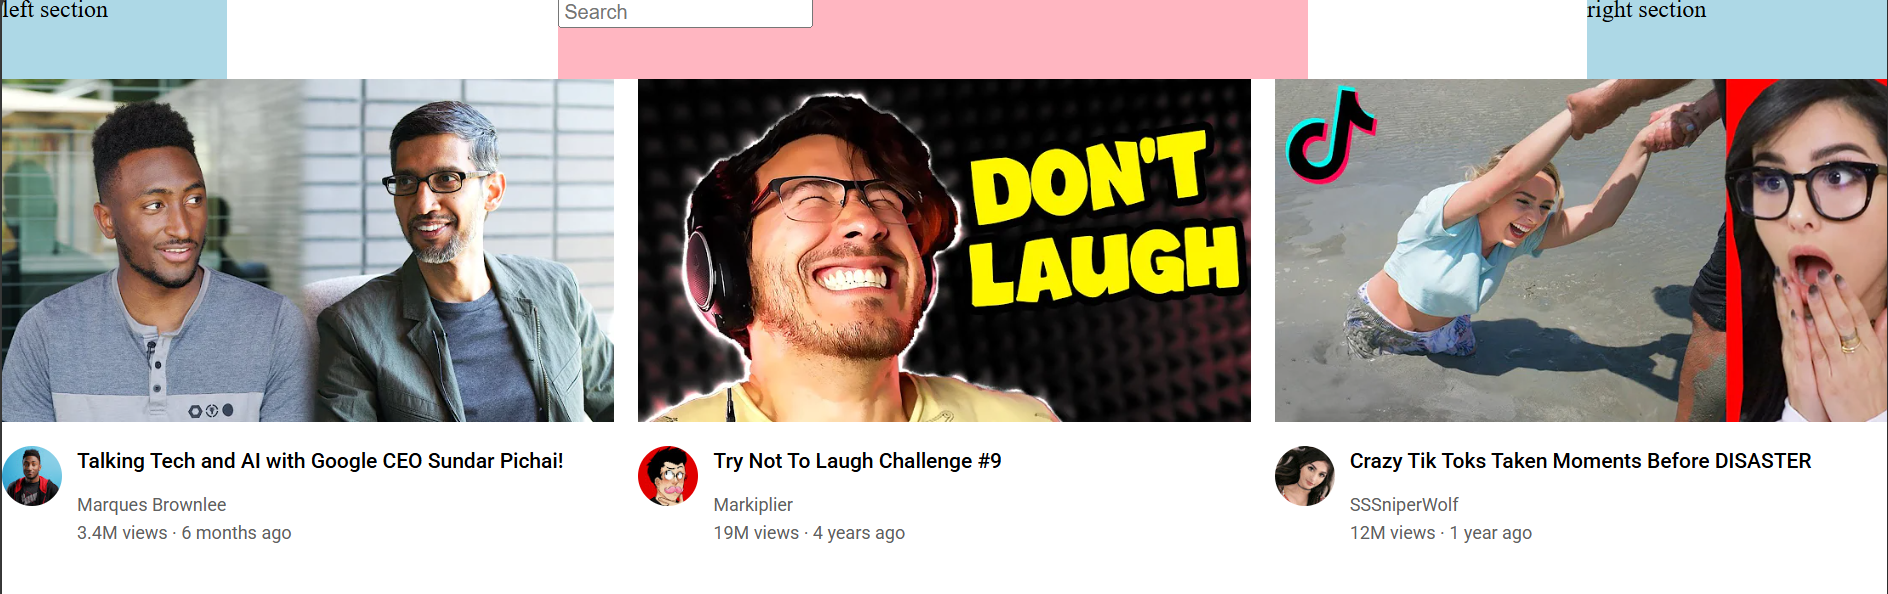
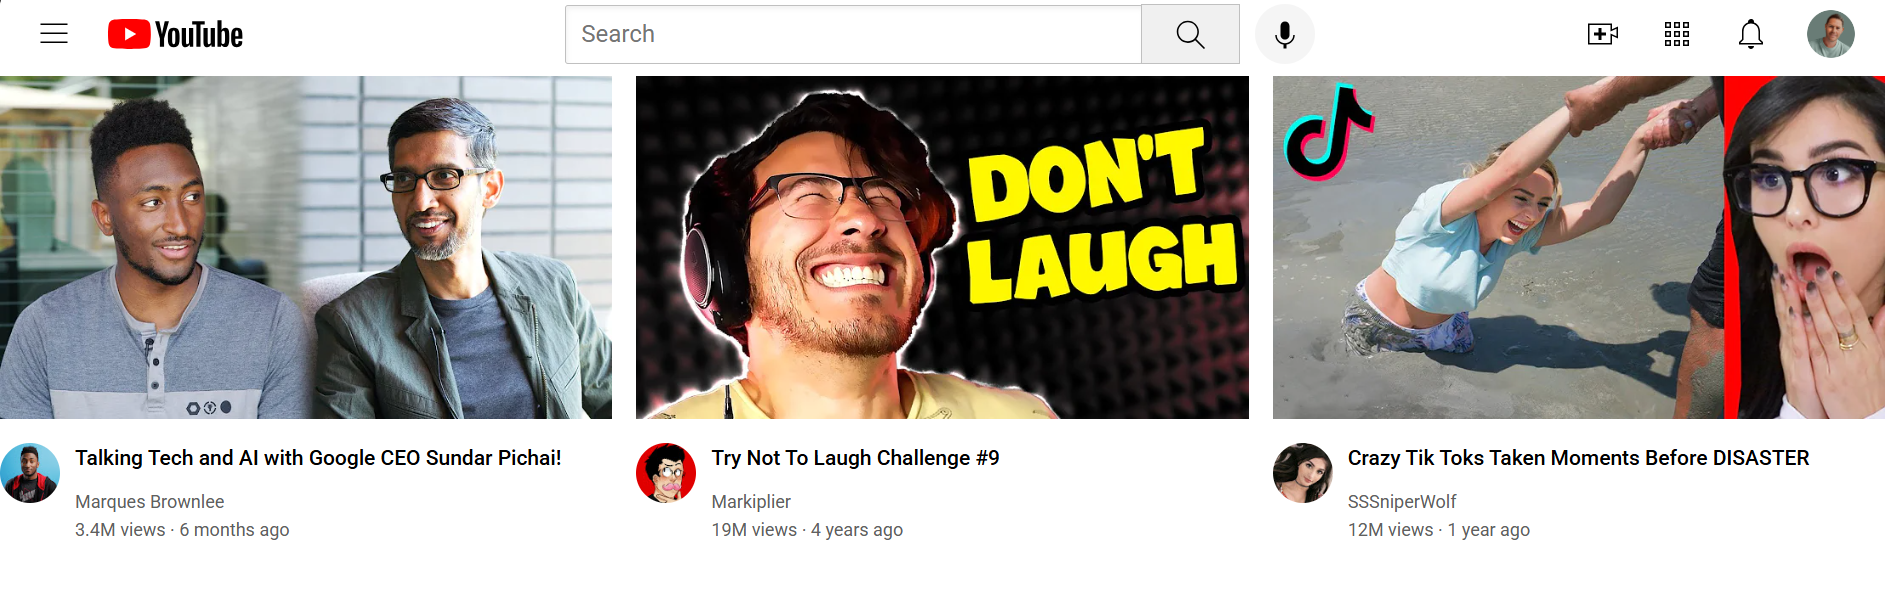
complete section 13

Changed region(s): [[0.0, 0.0, 1.0, 0.9091], [0.6462, 0.5455, 0.6769, 0.6667]]

diff --git a/youtube-clone/styles/header.css b/youtube-clone/styles/header.css
@@ -7,19 +7,98 @@
   }
   
   .left-section {
-    background-color: lightblue;
-    width: 150px;
+    display: flex;
+    align-items: center;
+  }
+  
+  .hamburger-menu {
+    height: 24px;
+    margin-left: 24px;
+    margin-right: 24px;
+  }
+  
+  .youtube-logo {
+    height: 20px;
   }
   
   .middle-section {
-    background-color: lightpink;
     flex: 1;
     margin-left: 70px;
     margin-right: 35px;
     max-width: 500px;
+    display: flex;
+    align-items: center;
+  }
+  
+  .search-bar {
+    flex: 1;
+    height: 36px;
+    padding-left: 10px;
+    font-size: 16px;
+    border-width: 1px;
+    border-style: solid;
+    border-color: rgb(192, 192, 192);
+    border-radius: 2px;
+    box-shadow: inset 1px 2px 3px rgba(0, 0, 0, 0.05);
+    width: 0;
+  }
+  
+  .search-bar::placeholder {
+    font-family: Roboto, Arial;
+    font-size: 16px;
+  }
+  
+  .search-button {
+    height: 40px;
+    width: 66px;
+    background-color: rgb(240, 240, 240);
+    border-width: 1px;
+    border-style: solid;
+    border-color: rgb(192, 192, 192);
+    margin-left: -1px;
+    margin-right: 10px;
+  }
+  
+  .search-icon {
+    height: 25px;
+    margin-top: 4px;
+  }
+  
+  .voice-search-button {
+    height: 40px;
+    width: 40px;
+    border-radius: 20px;
+    border: none;
+    background-color: rgb(245, 245, 245);
+  }
+  
+  .voice-search-icon {
+    height: 24px;
+    margin-top: 4px;
   }
   
   .right-section {
-    background-color: lightblue;
-    width: 200px;
+    width: 180px;
+    margin-right: 20px;
+    display: flex;
+    align-items: center;
+    justify-content: space-between;
+    flex-shrink: 0;
+  }
+  
+  .upload-icon {
+    height: 24px;
+  }
+  
+  .youtube-apps-icon {
+    height: 24px;
+  }
+  
+  .notifications-icon {
+    height: 24px;
+  }
+  
+  .current-user-picture {
+    height: 32px;
+    border-radius: 16px;
   }

diff --git a/youtube-clone/youtube.html b/youtube-clone/youtube.html
@@ -16,13 +16,23 @@
     <body>
         <div class="header">
           <div class="left-section">
-            left section
+            <img class="hamburger-menu" src="icons/hamburger-menu.svg">
+            <img class="youtube-logo" src="icons/youtube-logo.svg">
           </div>
           <div class="middle-section">
             <input class="search-bar" type="text" placeholder="Search">
+            <button class="search-button">
+              <img class="search-icon" src="icons/search.svg">
+            </button>
+            <button class="voice-search-button">
+              <img class="voice-search-icon" src="icons/voice-search-icon.svg">
+            </button>
           </div>
           <div class="right-section">
-            right section
+            <img class="upload-icon" src="icons/upload.svg">
+            <img class="youtube-apps-icon" src="icons/youtube-apps.svg">
+            <img class="notifications-icon" src="icons/notifications.svg">
+            <img class="current-user-picture" src="channel-pics/my-channel.jpg">
           </div>
         </div>
     
